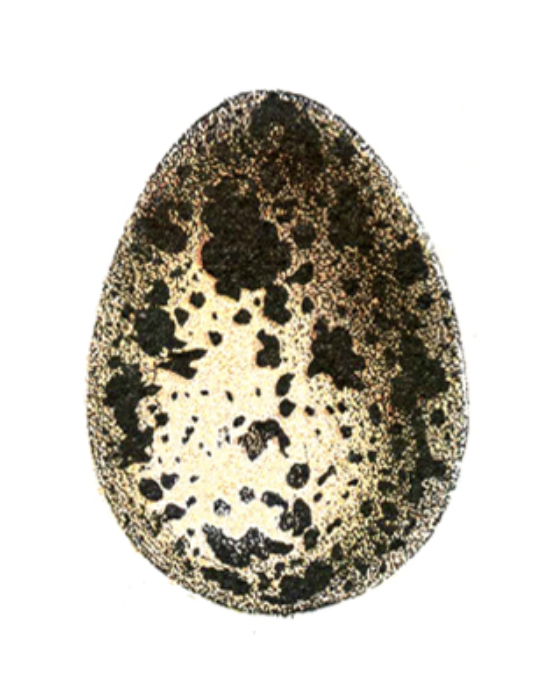
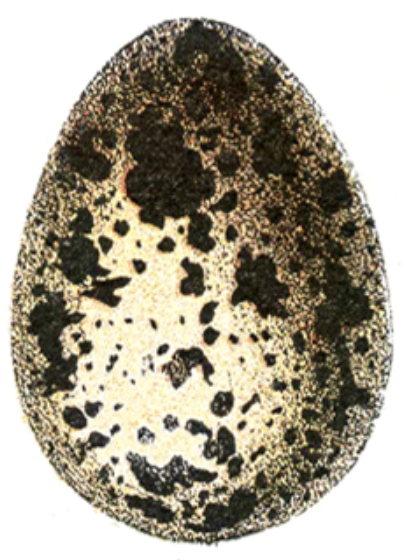
reshaped citation

diff --git a/assets/css/main.css b/assets/css/main.css
@@ -1249,25 +1249,46 @@ body {
   align-items: center;
 }
 
+
+/* ===================================== */
+/* NORMAL ROW                            */
+/* Image LEFT / Text RIGHT               */
+/* ===================================== */
+
+.outreach-image {
+  display: flex;
+  justify-content: flex-end;
+  padding-right: 2rem;
+}
+
+.outreach-text {
+  padding-left: 2rem;
+}
+
+
+/* ===================================== */
+/* REVERSED ROW                          */
+/* Text LEFT / Image RIGHT               */
+/* ===================================== */
+
 .outreach-reverse .outreach-image {
   order: 2;
+  justify-content: flex-start;
+  padding-right: 0;
+  padding-left: 2rem;
 }
 
 .outreach-reverse .outreach-text {
   order: 1;
   text-align: right;
-}
-
-
-/* Images */
-
-/* Normal row: image in LEFT column, pushed toward centre */
-
-.outreach-image {
+  padding-left: 0;
   padding-right: 2rem;
-  display: flex;
-  justify-content: flex-end;
 }
+
+
+/* ===================================== */
+/* OUTREACH IMAGES                       */
+/* ===================================== */
 
 .outreach-image img {
   display: block;
@@ -1278,7 +1299,9 @@ body {
 }
 
 
-/* Text */
+/* ===================================== */
+/* OUTREACH TEXT                         */
+/* ===================================== */
 
 .outreach-type {
   font-family: "DINLight", sans-serif;
@@ -1310,7 +1333,9 @@ body {
 }
 
 
-/* READ / LISTEN / WATCH */
+/* ===================================== */
+/* READ / LISTEN / WATCH LINKS           */
+/* ===================================== */
 
 .outreach-link {
   display: inline-block;
@@ -1344,37 +1369,41 @@ body {
     flex-wrap: wrap;
   }
 
+  /* Switch from two columns to one */
+
   .outreach-item {
-    width: 100%;
-    margin: 0 auto 6rem;
-
-    display: grid;
-    grid-template-columns: 50% 50%;
-    align-items: center;
+    grid-template-columns: 1fr;
+    width: 86vw;
+    margin: 0 auto 4rem;
   }
 
-  /* Normal row: image left, text right */
+  /* Images centered on mobile */
 
-  .outreach-image {
-    padding-right: 2rem;
-  }
-
-  .outreach-text {
-    padding-left: 2rem;
-  }
-
-  /* Reversed row: text left, image right */
-
+  .outreach-image,
   .outreach-reverse .outreach-image {
-    order: 2;
+    order: initial;
+    justify-content: center;
+    padding-left: 0;
     padding-right: 0;
-    padding-left: 2rem;
-    justify-content: flex-start;
+    margin-bottom: 1.5rem;
   }
 
-  .outreach-reverse .outreach-text {
-    order: 1;
-    text-align: right;
-    padding-left: 0;
-    padding-right: 2rem;
+  .outreach-image img {
+    width: 70%;
+    max-width: 400px;
   }
+
+  /* Text always left-aligned on mobile */
+
+  .outreach-text,
+  .outreach-reverse .outreach-text {
+    order: initial;
+    text-align: left;
+    padding-left: 0;
+    padding-right: 0;
+  }
+
+  .outreach-text h3 {
+    font-size: 28px;
+  }
+}
